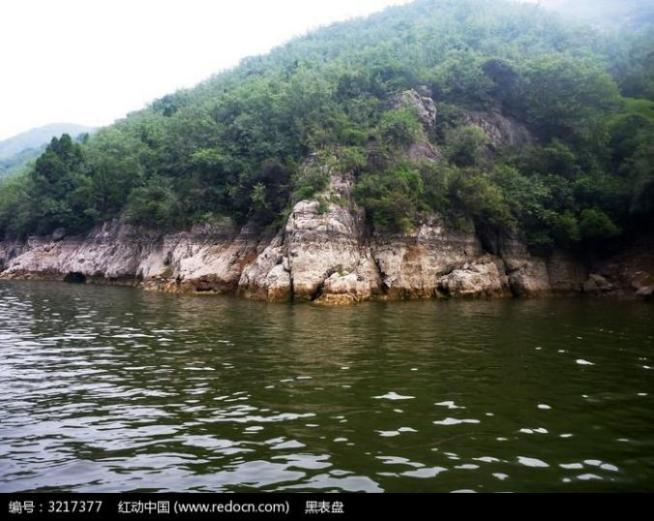
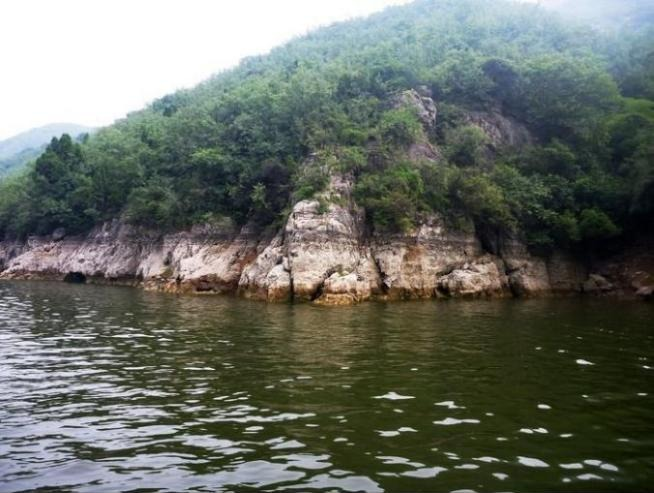
cards 401-410：插图水印清理 9 张（㰋/史/疐/飭/鑡/頻/簋/䅠/畟；裁标记带或局部填补，主体完整）

diff --git a/memory/CURRENT.md b/memory/CURRENT.md
@@ -38,7 +38,7 @@ Primary Context: `default`
 
 - 2026-11-23：**简体索引全库补齐 175 个**（主人报「辄等简化字没有建立索引」，`27ee68b43`）：用 Windows `LCMapStringW`（T→S）扫 18251 张卡的字，`cards/variants.json` 1337→1512——含 371–379 漏的 **辄/计/诹/鲰/亵/絷** 六字，及 删/补/证/灵/摄/蹑/镊/铺/鲍/慑/龄/棂/馍 等；排除 9 个 LCMap 错映射（坰→垧、牪→瘪、脧→睃、芐→苄、鉆→钻、鐽→钽、戉→钺、啣→衔、廱→痈；钺/衔/痈 分别走正字 鉞/銜/癰）；撞车两台留规范正字（棂→欞 不取 櫺、馍→饃 不取 糢）。新增 `tools/check-variants.py`（缺/黑名单/撞车三类报告，`--apply` 写入），技能 §7 与 §8.4 加闸门：每部建完 `check-variants.py --bu NNN-NNN` 必须 `missing 0`。核对：辄/计/诹/鲰/亵/絷/删/补/证/灵/摄/蹑/镊/馍/棂 逐个 `/card` 200 且页头显正字，SPA 检索命中（index 的 `v` 字段）；`build-card-index.py` 重建 root variants 与 index（18251／alias 9662／variants 1512）。
 
-- 2026-11-23：**401 則部・402 夨部・403 史部・404 帶部・405 皀部（含二级 食）・406 畟部・407 足部（含一级 疋、二级 楚/胥）・408 步部（含一级 歮、二级 徙/奔/頻）・409 止部（含二级 是/蚩/疐/此/齒）・410 之部（含二级 志/寺/時）建成并提交**（`31c47161b`，卷六十六 401–406、卷六十七 407–410）：**27 字根卡＋438 族卡＝465 卡**（讹字 31、音译 2），族表 447 行（桥句 324、讹字 31、音译 2、只录原文 90）。图：字形 371（27 字根，与 2026-10-21 旧抽图逐张字节相同、仅补新字），extra 142（仄3/昃12/奊2/事31/吏9/冟5/簋8/飤13/稷7/婿1/涉16/陟5/𡕝5/舝4/𧈪2/雌4/頿7/㞢6/芝2），族字带形 99，參證 9（史「夬」5、畟「貺祝」4，cankao 段置辯證後），句内形 12（新写），插图 35（則2/鍘/𦽒/史/帶/皀/畟/㮨/𥞺/礎/簁/𧴎/奔/頻/步/止/芷/踶/䈕2/䅠/此/茈/蚩/疐/齒/鑡/芝/𩛣/𨨲/時）。校驗：verify 十部 `--expect --photo-strict` 六部 PASS（則/夨/史/帶/畟/步），皀 8／足 4／止 11／之 1 error 全为跨部旧卡（簋、孂 parent=㲃；疏、蔬 parent=𠫓；祡 parent=示；𪗨 parent=出）与同字两行（妛 归蚩、𣊒 归是），本批只录行、不改其 parent；warn 91 全 E080 只录原文（专名/名物仅训释/音义未详）。check-bu：則 15/1、夨 6、史 17、帶 16、皀 15/1（4）、畟 10、足 70/3（2）、步 78/4、止 148/5（4）、之 53/3（1），問題均上述跨部旧卡；check-rows-cards 十字根全 PASS missing 0（含讹字行）；check-ezi 0；cardhygiene 0/0；check-luodian 108＋212 行 bad 0。頁检（8120）：465 卡全 200、图注数=files+extra+cimgs+photos、`{{` 0、图全 200。简体 +30（则侧厕恻测铡谏驶带滞饬饰龊础谞骘濒苹颦涩锛题缇鲥齿啮赀诗时莳）逐个 /card 200 显正字；别名路由 仄→𠨮、昃→𣅔、稷→禝、從→徔、时→時、𣳪→㳏、譅→𧬃、鱻→尟 均 200。audit-photos：卷六十六 401–406 全对（400 才部未建，余 4 段未落位）；卷六十七 407–410 PASS；卷卡 卷六十六采 15 行、卷六十七足 20 行音系表重建（部目只标部首行、中心义取本義首句、字族按各字根 zizu 行去括注码位排序，411 㝵 旧行保留）。索引 18251／alias 9666／variants 1336。删旧桩卡 8（仄/昃/稷/從/时/𣳪/譅/鱻，并入 aliases）＋清旧照片 20（是/賊/皉/蘃/騠/𣽑/懥 等）。待裁：①事、吏 为 403 部内附见字头，原稿无独立本義/字族，未建卡；2026-11-23 主人定「事、吏 都是史的參證字，放在史字辯證之下」，其字形（事 31、吏 9）已改作 cimgs 置 史 卡辯證之下（原 extra 撤銷）；②妛 同见 409 蚩③与 410 之②，卡归蚩部（shiyi 取蚩行）、之部该行只录行；𣊒 同（归是部）；③7 张跨部旧卡（冟/簋/孂/疏/蔬/祡/𪗨）只录行、未改 parent，其中 簋/孂/疏/蔬/𪗨 旧卡缺 head/pinyin，F4 旧桥句过长属 祡 旧卡；④90 行 E080 只录原文，如需补桥请主人点名；⑤卷六十七卷首 11 種動物足跡圖（原稿同段重出兩次共 22 張）未挂卷卡。2026-11-25 主人裁：**「疋与足同源，也是一级字根；凡是同源异形的，地位等同」**——疋 由二级升为一级（parent 撤，erji 挂 楚/胥），歮 与步同源亦升一级（parent 撤，erji 挂 奔），楚/胥 改挂 疋、奔 改挂 歮；足/步 的 erji 只留自己的二级。check-bu 足 26/0/0、疋 43/2/2（仅疏/蔬 跨部旧卡）、步 47/2/0、歮 22/1/0；verify 足/步/歮 PASS，疋 4 error 全为疏/蔬 旧卡；页检七卡图注数全对。2026-11-23 补：皀 卡原挂的「商代的青銅龍鳳紋簋」插图按主人裁移归 簋 卡（四处清单同步；audit-photos 405 因 簋 卡 bus=228 会显示差 -1，非缺图）。
+- 2026-11-23：**401 則部・402 夨部・403 史部・404 帶部・405 皀部（含二级 食）・406 畟部・407 足部（含一级 疋、二级 楚/胥）・408 步部（含一级 歮、二级 徙/奔/頻）・409 止部（含二级 是/蚩/疐/此/齒）・410 之部（含二级 志/寺/時）建成并提交**（`31c47161b`，卷六十六 401–406、卷六十七 407–410）：**27 字根卡＋438 族卡＝465 卡**（讹字 31、音译 2），族表 447 行（桥句 324、讹字 31、音译 2、只录原文 90）。图：字形 371（27 字根，与 2026-10-21 旧抽图逐张字节相同、仅补新字），extra 142（仄3/昃12/奊2/事31/吏9/冟5/簋8/飤13/稷7/婿1/涉16/陟5/𡕝5/舝4/𧈪2/雌4/頿7/㞢6/芝2），族字带形 99，參證 9（史「夬」5、畟「貺祝」4，cankao 段置辯證後），句内形 12（新写），插图 35（則2/鍘/𦽒/史/帶/皀/畟/㮨/𥞺/礎/簁/𧴎/奔/頻/步/止/芷/踶/䈕2/䅠/此/茈/蚩/疐/齒/鑡/芝/𩛣/𨨲/時）。校驗：verify 十部 `--expect --photo-strict` 六部 PASS（則/夨/史/帶/畟/步），皀 8／足 4／止 11／之 1 error 全为跨部旧卡（簋、孂 parent=㲃；疏、蔬 parent=𠫓；祡 parent=示；𪗨 parent=出）与同字两行（妛 归蚩、𣊒 归是），本批只录行、不改其 parent；warn 91 全 E080 只录原文（专名/名物仅训释/音义未详）。check-bu：則 15/1、夨 6、史 17、帶 16、皀 15/1（4）、畟 10、足 70/3（2）、步 78/4、止 148/5（4）、之 53/3（1），問題均上述跨部旧卡；check-rows-cards 十字根全 PASS missing 0（含讹字行）；check-ezi 0；cardhygiene 0/0；check-luodian 108＋212 行 bad 0。頁检（8120）：465 卡全 200、图注数=files+extra+cimgs+photos、`{{` 0、图全 200。简体 +30（则侧厕恻测铡谏驶带滞饬饰龊础谞骘濒苹颦涩锛题缇鲥齿啮赀诗时莳）逐个 /card 200 显正字；别名路由 仄→𠨮、昃→𣅔、稷→禝、從→徔、时→時、𣳪→㳏、譅→𧬃、鱻→尟 均 200。audit-photos：卷六十六 401–406 全对（400 才部未建，余 4 段未落位）；卷六十七 407–410 PASS；卷卡 卷六十六采 15 行、卷六十七足 20 行音系表重建（部目只标部首行、中心义取本義首句、字族按各字根 zizu 行去括注码位排序，411 㝵 旧行保留）。索引 18251／alias 9666／variants 1336。删旧桩卡 8（仄/昃/稷/從/时/𣳪/譅/鱻，并入 aliases）＋清旧照片 20（是/賊/皉/蘃/騠/𣽑/懥 等）。待裁：①事、吏 为 403 部内附见字头，原稿无独立本義/字族，未建卡；2026-11-23 主人定「事、吏 都是史的參證字，放在史字辯證之下」，其字形（事 31、吏 9）已改作 cimgs 置 史 卡辯證之下（原 extra 撤銷）；②妛 同见 409 蚩③与 410 之②，卡归蚩部（shiyi 取蚩行）、之部该行只录行；𣊒 同（归是部）；③7 张跨部旧卡（冟/簋/孂/疏/蔬/祡/𪗨）只录行、未改 parent，其中 簋/孂/疏/蔬/𪗨 旧卡缺 head/pinyin，F4 旧桥句过长属 祡 旧卡；④90 行 E080 只录原文，如需补桥请主人点名；⑤卷六十七卷首 11 種動物足跡圖（原稿同段重出兩次共 22 張）未挂卷卡。2026-11-25 主人裁：**「疋与足同源，也是一级字根；凡是同源异形的，地位等同」**——疋 由二级升为一级（parent 撤，erji 挂 楚/胥），歮 与步同源亦升一级（parent 撤，erji 挂 奔），楚/胥 改挂 疋、奔 改挂 歮；足/步 的 erji 只留自己的二级。check-bu 足 26/0/0、疋 43/2/2（仅疏/蔬 跨部旧卡）、步 47/2/0、歮 22/1/0；verify 足/步/歮 PASS，疋 4 error 全为疏/蔬 旧卡；页检七卡图注数全对。2026-11-23 补：皀 卡原挂的「商代的青銅龍鳳紋簋」插图按主人裁移归 簋 卡（四处清单同步；audit-photos 405 因 簋 卡 bus=228 会显示差 -1，非缺图）。2026-11-25 主人命清理插图水印：本批 34 张插图逐张目检，11 张带标记已裁/抹（則01 汇图网、簁01 东方IC/中工网、頻01 红动中国、簋01 汇图网+编号条、史01 纹行天下、飭01 知乎、疐01 fieldjungle、鑡01 中华古玩网、㰋01 百家号、䅠01 土巴兔、畟01 彭阳微帮），只切标记带或局部克隆/中值填补，主体完整；页检图注数不变。
 
 - 2026-11-23：**421 克部・422 癹部（部头 癶，含二级 癹）・423 伐部・424 鬲部・425 秝部（含二级 歷）・426 虤部（含二级 皆）・427 聿部（含二级 筆/晝/肅/肁）・428 曰部・429 立部（含二级 戾/翌）・430 隶部（含二级 肆）建成并提交**（`15988bc69`，卷七十 421–426、卷七十一 427–430）：**20 字根卡＋257 族卡＝277 卡**（讹字 10：423 四、425 三、426 二、428 一；音译 4：421 三、426 一），族表 259 行（桥句 202、讹字 10、音译 4、只录原文 43）。图：字形 432（含 extra 11：癶 舛2/𣥖1、聿 𦘒7、肆 銉1；族字带形 23 字 189 图，發16/律9/隸7/楷6/煯6/逮5/曆2 等），參證 3（癶「歮」1、皆「亢」2，cankao 段置辯證後），句内形 12（克 辯證2、癶 辯證1、伐 𤇰1、鬲 本義2/搹1、晝 本義1、肅 嘯1/鷫1、戾 蜧1、隸 1、肆 轉義1），插图 26（克/癹/發/伐/筏/鬲2/鷊/蒚/秝/歷/轣/虤/鶛/楷/聿/律/筆/肅/蕭/蟰/繡/笠/苙/戾/肆），卷首 4（卷七十 旱獺／虎食女魃圖、卷七十一 筆的結構／倉頡造字畫像石）挂卷卡。字形与 docx 逐张 sha256 核对；补抽 筆2、晝9（image31.emf→PNG）、肁5、肇4、肆4（image177.emf→PNG）、銉1、虤6，清旧兜底图 14 张（䔉/曻/皆2/肈/鞡/𠽩2/𣻱/𥒠/曃）。校验：verify 十部 `--expect --page --alias-pages --photo-strict`：**克/癶/伐/鬲/秝/虤/聿/曰/立 九部 PASS 0 error**；隶 2 error 为旧卡 隸（E003 缺 pinyin、E020 parent=柰 到不了 隶），本批只录行、不改其 parent；warn 55（E080 43 行只录原文＋E031 12 条 head 括注异体已有卡，照 §15.4 宁重不缺）。check-bu：克 9/0/0、癶 29/1/0、伐 9/0/0、鬲 22/0/0、秝 33/1/0、虤 38/1/0、聿 56/4/0、曰 4/0/0、立 33/2/0、隶 17/1/1（隸）；check-rows-cards 20 字根全 PASS missing 0（含讹字行）；check-ezi 0；cardhygiene 0/0；check-shiyi 258/0；check-luodian 202 行 bad 0。页检（8123）：277 卡全 200、图注数=files+extra+cimgs+photos、`{{` 0；卷卡 卷七十亥 2 图、卷七十一聿 2 图（音系表各 12 行重建：部目只标部首行、中心义取本義、字族按各字根 zizu 行去括注码位排序）；简体 +27（发废拨泼绣潇啸萧箫鹔骕飒莅泪阀镉鹝沥疬雳呖苈枥坜谐阶叇）逐个 /card 200 显正字。audit-photos：卷七十 PASS（421 1/1、422 2/2、423 2/2、424 4/4、425 3/3、426 3/3，卷首2）；卷七十一 428/429/430 PASS，427 8/7 差 1（段133 刷帚图挂 174 尹部 盡 卡，audit 按 bus 计）；工具 audit-photos 修卷卡名「部」后缀与卷首按张计。索引 18259／alias 9667／variants 1306。待裁：①盡 已在 174 尹部（level2, parent=尹），427 聿 的二级只挂 筆/晝/肅/肁，盡 只录行、不建双卡；②隸 已在 10 示部（parent=柰）只录行；③43 行 E080 只录原文（专名/名物仅训释/音义未详），如需补桥请主人点名；④E031 12 条为旧例（head 括注异体已有卡）。2026-11-23 复核补（`d919cf2de`）：五张插图裁去水印——筏「汇图网 www.huitu.com」、秝「西双版纳群文」、歷「Ai 标＋电子版文件非实物」红框、肅「XIAOHU'S PHOTOGRAPHY＋搜狐号@民间手艺人」、癹「©来自莲藕气低调的绿箭侠」，均只裁掉水印所在边条（1200×622／658×376／704×636／550×320／500×832）；卷七十亥、卷七十一聿 四张卷首图由 700px 压缩版换回 docx 原图（与 `word/media/image1–2` sha256 全等），四清单文件名不变。复核：verify 十部 `--expect --page --alias-pages --photo-strict`（8102）仍 430 隶 2 error／warn 55 如前；check-bu 十部 0（隶 1 隸）、check-rows-cards PASS、check-ezi 0、cardhygiene 0/0、check-luodian 202/0、釋義逐行 vs 原稿 259 行全等、check-spa-render 277 bad 0、check-variants `--bu 421-430` missing 0、audit-photos 卷七十 PASS／卷七十一致如前（8 段对 7 卡为 盡 挂 174 尹部）；简化字 16 例 /card 路由 200。仅观察未改：伐 𤇰 行《正字通》引文中的烕篆形（原稿 image217）落在族表行内，渲染器不展开行内 `{{}}`（米/吾 三行仍显字面 `{{shiyi/…}}`），故该图未入库、只在行内留一空格。
 
